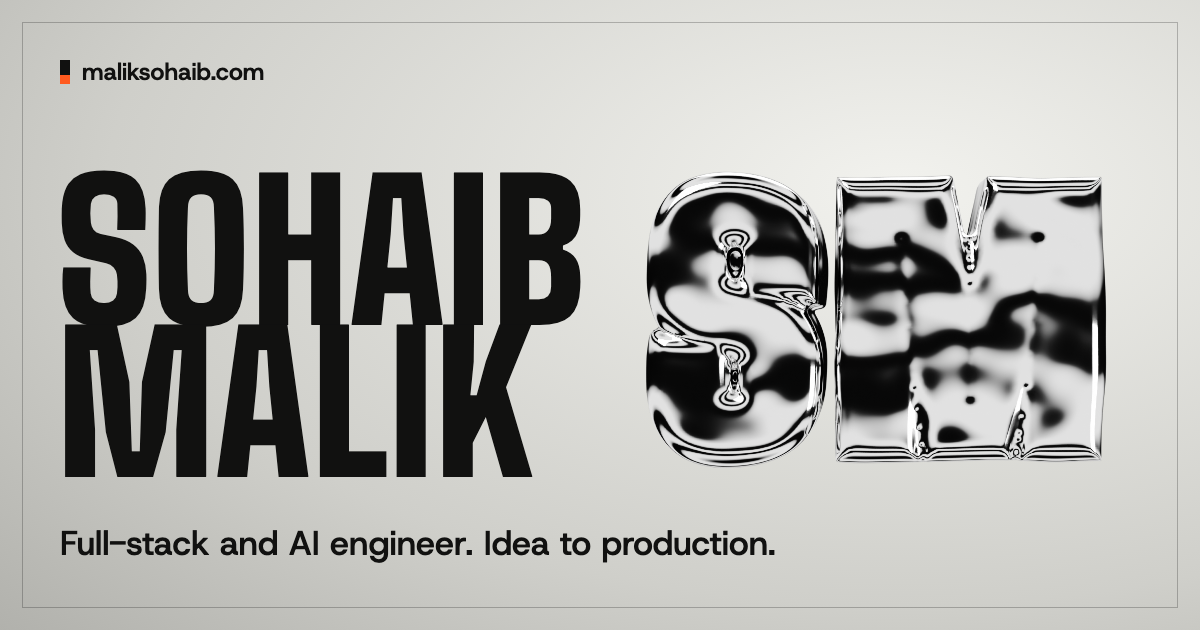
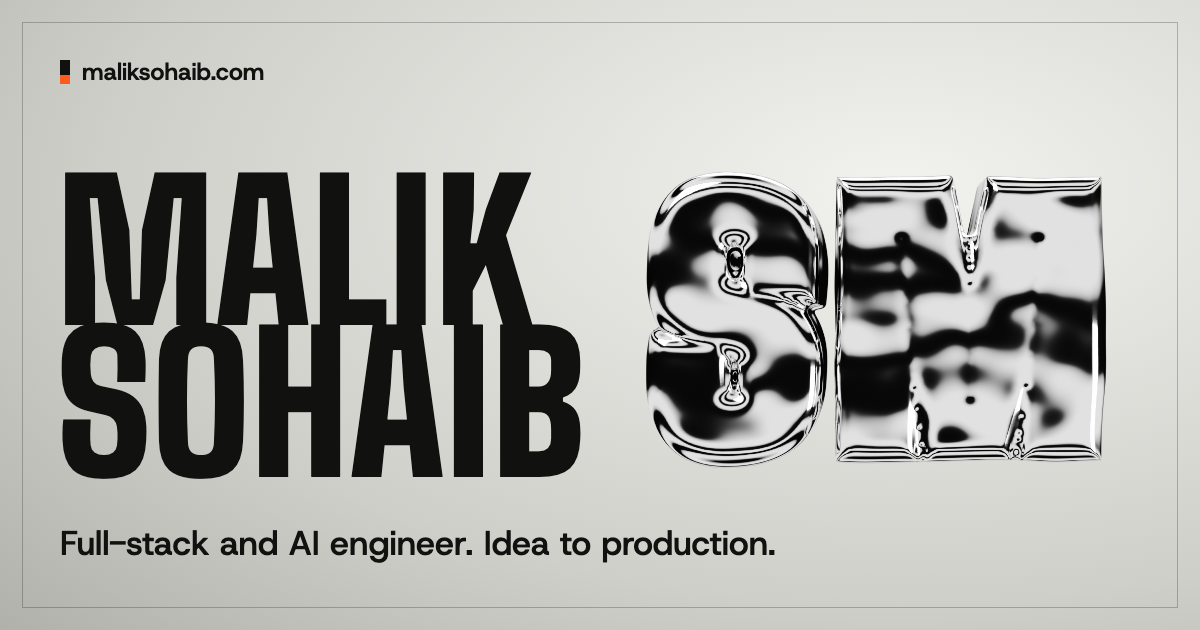
Use the name order Malik Sohaib everywhere

Changed region(s): [[0.0308, 0.2714, 0.4933, 0.7841]]

diff --git a/src/data/site.ts b/src/data/site.ts
@@ -6,12 +6,12 @@ import activity from './activity.json';
 export const site = {
   /** 'studio' or 'gallery'. A ?palette= query overrides it while the two are being compared. */
   palette: 'studio' as 'studio' | 'gallery',
-  name: 'Sohaib Malik',
+  name: 'Malik Sohaib',
   fullName: 'Malik Sohaib Ahmad',
   role: 'Full-stack and AI engineer',
   url: 'https://maliksohaib.com',
   description:
-    'Sohaib Malik is a full-stack and AI engineer who takes products from idea to production for companies and clients worldwide: design, frontend, backend, AI and launch.',
+    'Malik Sohaib is a full-stack and AI engineer who takes products from idea to production for companies and clients worldwide: design, frontend, backend, AI and launch.',
   email: 'maliksohaib.official@gmail.com',
   whatsapp: { label: '+92 305 4990819', href: 'https://wa.me/923054990819' },
   resume: 'https://drive.google.com/file/d/1GkmXoQbUvw-G0CaTWXMAeeqX4GtFjBji/view?usp=sharing',
@@ -232,7 +232,7 @@ export const gigs: Gig[] = [
 
 // The About page. The bio uses only facts on record (CV, the old site, the repos).
 export const about = {
-  greeting: 'Hey, I’m Sohaib.',
+  greeting: 'Hey, I’m Malik Sohaib.',
   bio: [
     'I studied mechatronics at Air University and found I liked the software half most. Since 2022 I’ve built for a US education nonprofit, a solar engineering company in Lahore, and Arthur in Germany, where I’m now a senior engineer.',
     'In 2026 I started taking my own ideas all the way: a commerce platform, 23 party games, and a gym system that shipped in two days. I like owning the whole thing, and writing down why I built it the way I did.',

diff --git a/art/blender/poster.py b/art/blender/poster.py
@@ -271,9 +271,29 @@ else:
 scene_name = base
 if scene_name in ('hero-wide', 'hero-tall'):
     # The name, poured in chrome. Wide: one line per word, side by side in frame; tall: stacked big.
-    name = text('SOHAIB\nMALIK', 2.4, (0, 0.6, 1.0), line=0.82)
+    name = text('MALIK\nSOHAIB', 2.4, (0, 0.6, 1.0), line=0.82)
     ground(name)
     camera(target=(0, 0.6, 2.0), dist=12.5 if scene_name == 'hero-tall' else 7.9, height=1.7, lens=58)
+elif scene_name == 'mercury':
+    # A drop of mercury mid-splash: one heavy body with satellites pulling away on necks.
+    mb = bpy.data.metaballs.new('mercury')
+    mb.resolution = 0.03
+    mb.render_resolution = 0.008
+    mb.threshold = 0.6
+    body = mb.elements.new(type='ELLIPSOID')
+    body.co = (0, 0, 1.25)
+    body.radius = 2.1
+    body.size_x, body.size_y, body.size_z = 1.0, 0.9, 0.8
+    for co, r in [((1.25, -0.1, 1.75), 0.42), ((1.75, 0.0, 2.15), 0.2), ((-1.2, 0.1, 0.95), 0.48), ((-1.75, 0.0, 0.7), 0.24),
+                  ((0.35, -0.2, 2.15), 0.36), ((0.55, -0.1, 2.65), 0.16), ((-0.4, 0.0, 0.45), 0.5), ((2.25, 0.1, 2.5), 0.1)]:
+        e = mb.elements.new(type='BALL')
+        e.co = co
+        e.radius = r * 1.9
+    o = bpy.data.objects.new('mercury', mb)
+    col.objects.link(o)
+    o.data.materials.append(CHROME)
+    o.rotation_euler = (0, math.radians(-8), math.radians(14))
+    camera(target=(0, 0.2, 1.45), dist=8.2, height=1.5, lens=58)
 elif scene_name == 'mini-havoc':
     bean((0, 0.2, 0), 1.0, math.radians(-10))
     bean((-1.25, 1.0, 0), 0.75, math.radians(18))

diff --git a/DESIGN.md b/DESIGN.md
@@ -4,7 +4,7 @@ The plan for the 2026 rebuild. Later passes follow this file, and it changes whe
 
 ## Brief
 
-- **Who:** Malik Sohaib Ahmad ("Sohaib Malik"), full-stack and AI engineer in Pakistan. Senior
+- **Who:** Malik Sohaib Ahmad ("Malik Sohaib"), full-stack and AI engineer in Pakistan. Senior
   Full Stack Engineer at Arthur (Germany, remote) since Nov 2023. Before that BH Group (Lahore)
   and Council for Education (US, remote). In 2026 he built three products of his own: EzVenda
   (live), Mini Havoc (live) and GymPaid (in hand-over).

diff --git a/README.md b/README.md
@@ -1,4 +1,4 @@
-# Sohaib Malik: portfolio
+# Malik Sohaib: portfolio
 
 The personal site of Malik Sohaib Ahmad, full-stack and AI engineer. Static Astro, no
 animation libraries, about 400 KB for the home page including images.
